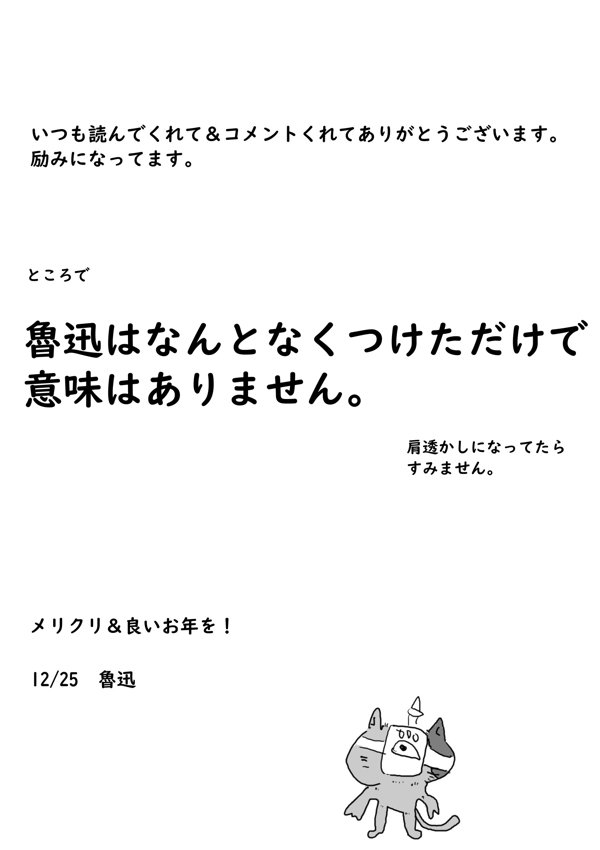
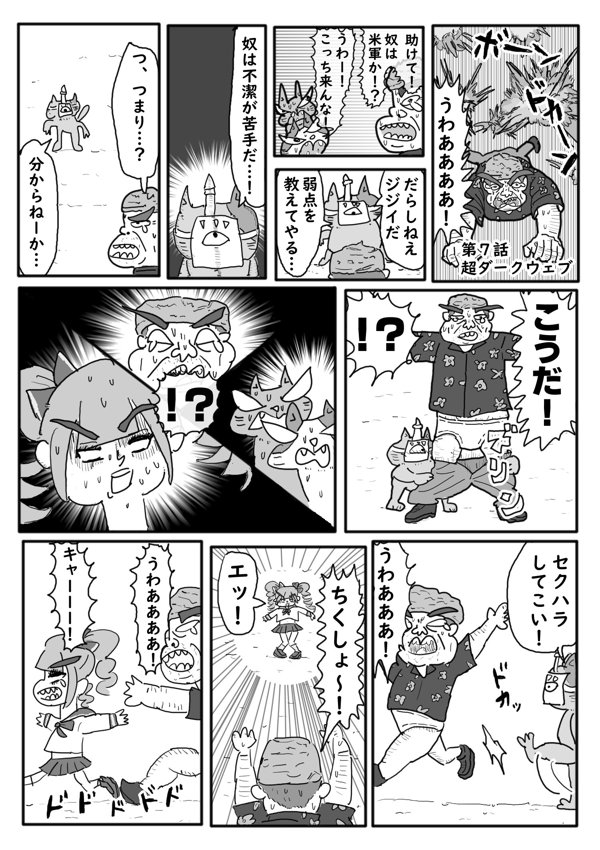
7

diff --git a/7.html b/7.html
@@ -5,7 +5,7 @@
 	<meta http-equiv="Content-type" content="text/html; charset=UTF-8">
 	<meta http-equiv="Content-Style-Type" content="text/css" />
 	<link rel="stylesheet" href="index.css" type="text/css" />
-	<title>AQL | 6</title>
+	<title>AQL | 7</title>
 </head>
 <body>
 
@@ -15,20 +15,21 @@
 	</a>
 </p>
 <p class="pager">
-	<a href="5.html">
+	<a href="6.html">
 		&lt;&lt; 前
 	</a>
-	<a href="7.html">
+	<a href="8.html">
 		次 &gt;&gt;
 	</a>
 </p>
 
 <div id="main">
 	<hr>
-	<h1>AQL | 6</h1>
+	<h1>AQL | 7</h1>
 	<hr>
-	<br><div class="center"><img src="14.jpg" border="0"></div><br>
-	<br><div class="center"><img src="15.jpg" border="0"></div><br>
+	<br><div class="center"><img src="16.jpg" border="0"></div><br>
+	<br><div class="center"><img src="17.jpg" border="0"></div><br>
+	<br><div class="center"><img src="18.jpg" border="0"></div><br>
 
 
 
@@ -52,7 +53,7 @@
 	<form action="https://neetsha.jp/inside/comment.php" method="post" class="post" utn>
 		<input type="hidden" name="methodid" value="1" >
 		<input type="hidden" name="id" value="26213" >
-		<input type="hidden" name="story" value="6" >
+		<input type="hidden" name="story" value="7" >
 		<textarea style="width:80%; height:4em;" maxlength="256" name="comment" placeholder="ここに感想を書いてください。"></textarea>
 		<p>
 			<label>
@@ -66,10 +67,10 @@
 
 
 <p class="pager">
-	<a href="5.html">
+	<a href="6.html">
 		&lt;&lt; 前
 	</a>
-	<a href="7.html">
+	<a href="8.html">
 		次 &gt;&gt;
 	</a>
 </p>

diff --git a/index.html b/index.html
@@ -54,9 +54,13 @@
 <p>
 		&nbsp;<a href="6.html" target="_self">第6話「舌戦」</a>(2025/12/25)
 	</p>
+<p>
+		&nbsp;<a href="6.html" target="_self">第7話「超ダークウェブ」</a>(2026/01/01)
+	</p>
+
 	<hr>
 
-	<p>作者コメント：</p>
+	<p>作者コメント：あけましておめでとうございます！</p>
 </div>
 
 <div id="comment">
